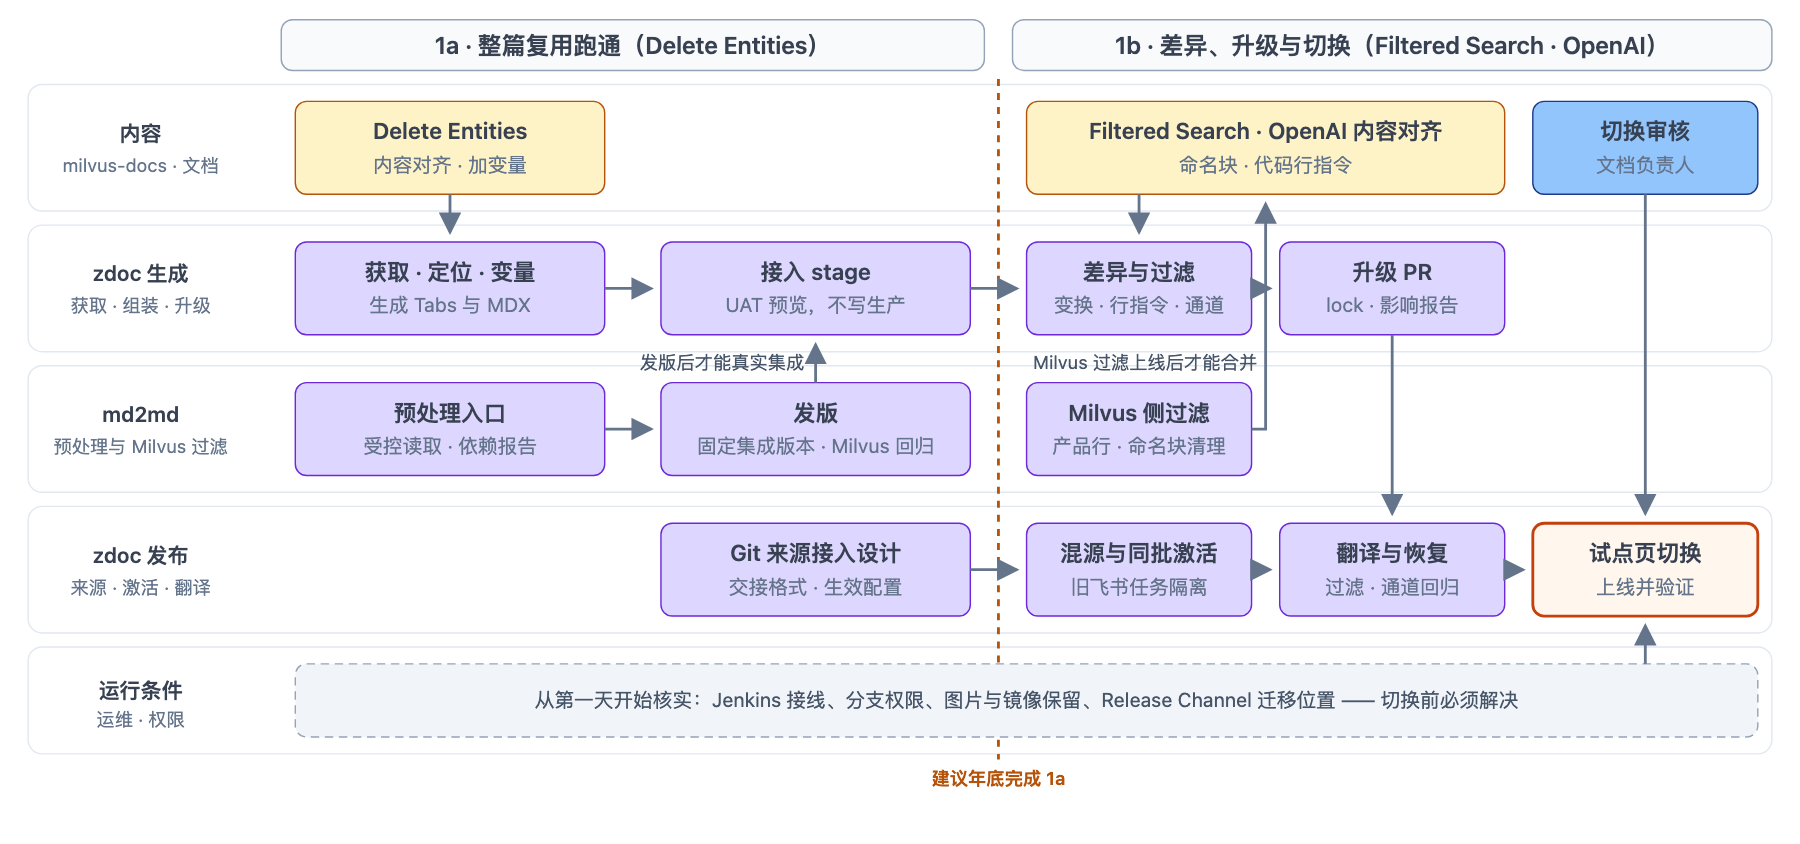
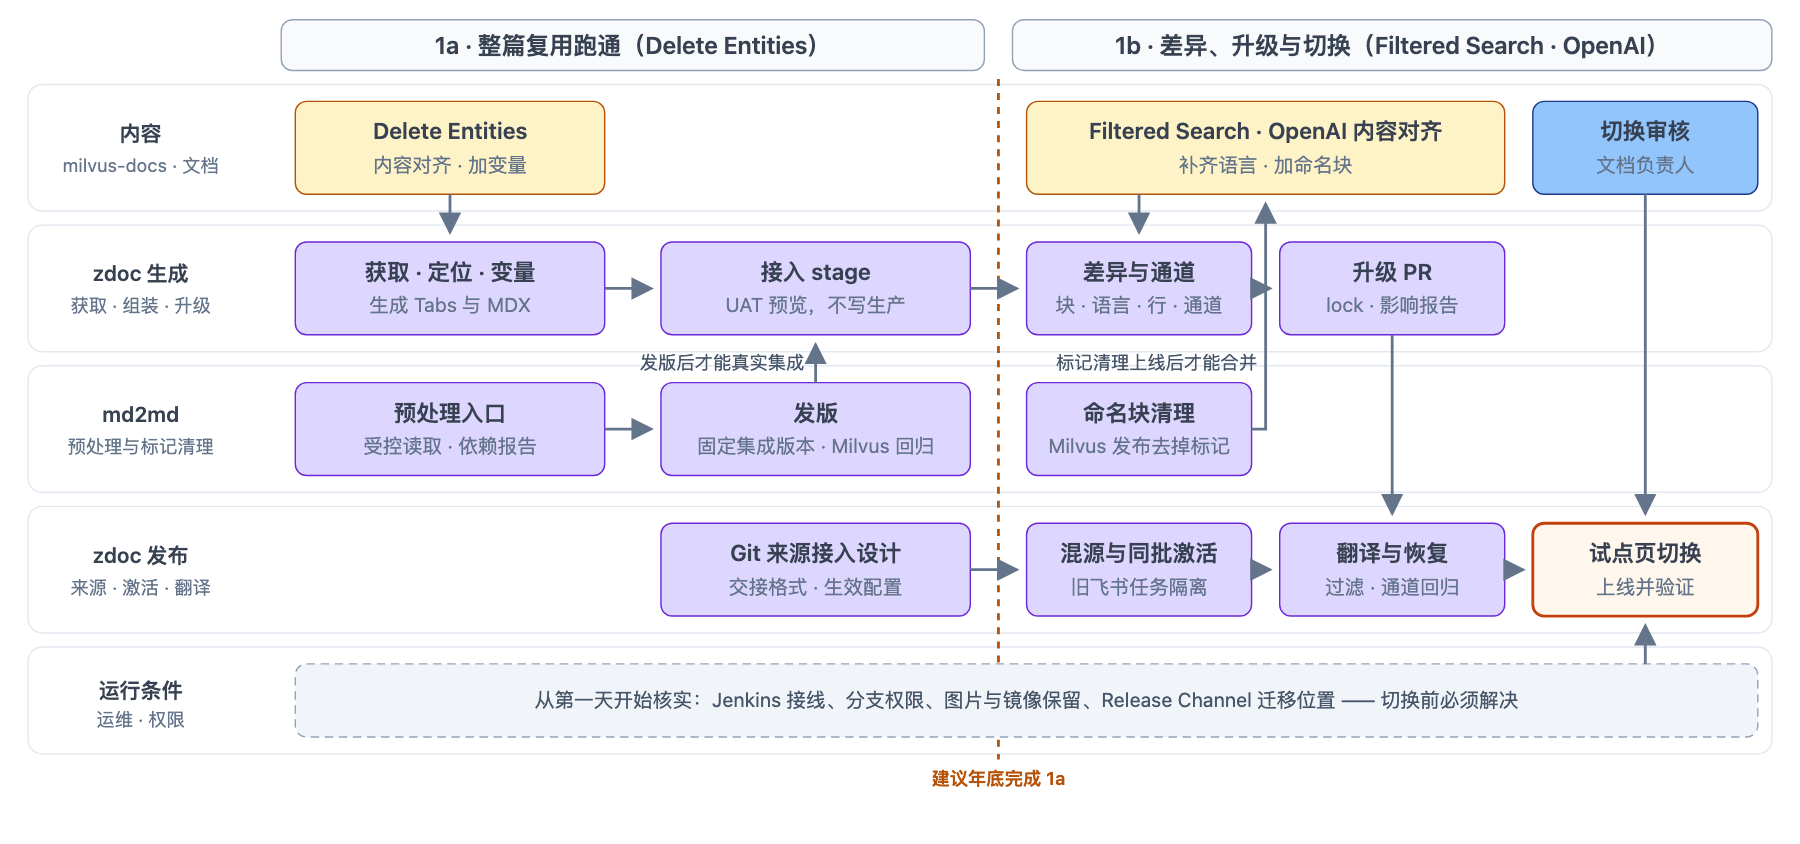
docs: express code-line differences in zdoc instead of milvus-docs
Shared source no longer carries product directives. A transform target can
now narrow from a named code group and language to consecutive whole lines
(exact match ignoring indentation, unique, at most 5 lines); add, replace
and remove apply as before and new lines inherit the first matched line's
indentation. Larger or scattered differences replace the language item.

md2md only needs named-block marker cleanup, so the Milvus-side product
filter and its "two parsers must agree" risk drop out of phase 1.

- proposal: figure 5 redrawn, section 4 notes, decision item 3
- architecture 2.3 rewritten; schema 3.7, constraints, errors, fields
- phase-1 tasks, T04, dependencies; five figures relabelled
- audit keeps its original conclusion with a dated follow-up note

diff --git a/docs/architecture.md b/docs/architecture.md
@@ -12,13 +12,13 @@
 三条设计原则：
 
 - **一个编辑源。** 共享原文只在 milvus-docs 维护；Cloud 从 md2md 处理前的固定 commit 读取，不从 web-content 或站点 HTML 反推。
-- **差异放在 zdoc。** Cloud 的章节与段落差异写在 zdoc 的 overlay（页面配置、变量、Cloud 内容文件）中，原文只提供中性的命名块。唯一例外是代码行级的产品差异（[第 2.3 节](#23-代码行产品指令)）。
+- **差异放在 zdoc。** Cloud 的章节与段落差异写在 zdoc 的 overlay（页面配置、变量、Cloud 内容文件）中，原文只提供中性的命名块，代码行级的差异也写在 zdoc（[第 2.3 节](#23-代码行差异)）。
 - **新增只在前端。** 新增工作是 zdoc 的共享获取与生成，以及 md2md 的预处理入口；校验、过滤、翻译与发布沿用 zdoc 现有流程，只扩展 Git 输入。不新增在线 registry、内容包分发服务或另一条发布队列。
 
 | 仓库 | 负责什么 | 首期改动 |
 |---|---|---|
-| [milvus-docs](https://github.com/milvus-io/milvus-docs) | 共享原文、命名块、默认变量、代码行产品指令 | 加变量、命名块与指令；更新贡献说明 |
-| [md2md](https://github.com/zilliztech/md2md) | 变量与片段 include 的展开 | 新增只做预处理的入口；新增产品行过滤与命名块清理，供 Milvus 发布使用 |
+| [milvus-docs](https://github.com/milvus-io/milvus-docs) | 共享原文、命名块、默认变量 | 加变量与命名块；更新贡献说明 |
+| [md2md](https://github.com/zilliztech/md2md) | 变量与片段 include 的展开 | 新增只做预处理的入口；新增命名块标记清理，供 Milvus 发布使用 |
 | [zdoc](https://github.com/zilliztech/zdoc) | Cloud overlay、页面生成、升级 PR、发布 | 新增共享获取与生成；扩展来源、通道与发布接入 |
 | [web-content](https://github.com/milvus-io/web-content) → [milvus.io](https://github.com/milvus-io/milvus.io) | Milvus 发布；SDK Reference 原文 | 不变，只做回归验证 |
 
@@ -28,7 +28,7 @@
 
 ## 2. 页面生成
 
-![Cloud 页面生成流水线：①按 lock 中的 commit 获取 milvus-docs 原文；②定位命名块与代码组并生成 registry；③按页面配置执行 add、replace、remove 并包裹 NextChannel；④调用 md2md 预处理入口展开变量与片段；⑤用 zdoc 现有过滤器处理产品行指令，只保留 zilliz 行；⑥站点适配并输出 MDX。下方对照 Milvus 侧：md2md 用 Milvus 变量展开，只保留 milvus 行并清除命名块标记。](./assets/generation-pipeline.png)
+![Cloud 页面生成流水线：①按 lock 中的 commit 获取 milvus-docs 原文；②定位命名块与代码组并生成 registry；③按页面配置对命名块、语言示例或连续的代码行执行 add、replace、remove，并包裹 NextChannel；④调用 md2md 预处理入口展开变量与片段；⑤沿用 zdoc 现有的产品过滤，只处理 Cloud 内容中的指令；⑥站点适配并输出 MDX。下方对照 Milvus 侧：md2md 用 Milvus 变量展开并清除命名块标记。](./assets/generation-pipeline.png)
 
 图 2 · Cloud 页面生成流水线
 - **顺序是约束，不是实现细节。** 命名块必须在变量展开之前定位，因为标记只存在于原文中；Cloud 内容文件在第 3 步插入后，与原文一起在第 4 步展开变量。本地原型也按这个顺序实现。
@@ -51,7 +51,7 @@
 
 ### 2.2 差异与变量
 
-页面配置对命名块只做三种动作：`add`（在块前后或代码组中增加）、`replace`、`remove`，另可把命名块包进 `<NextChannel>`（第 4 节）。动作写法和冲突规则见[消费配置草案](./consumption-schema.md)。
+页面配置只做三种动作：`add`、`replace`、`remove`。目标可以是一个命名块、代码组中的一个语言示例，或语言示例中连续的几行（第 2.3 节）。另可把命名块包进 `<NextChannel>`（第 4 节）。动作写法和冲突规则见[消费配置草案](./consumption-schema.md)。
 
 变量沿用 md2md 的 `Variables.json` 与 `{{var.xxx}}`：
 
@@ -60,24 +60,34 @@
 - 变量只放小粒度的值，不放整行代码。缺少 Cloud 绑定时失败，不静默使用 Milvus 的值。
 - 接入时核实 md2md 原有的目录与页面作用域，保持旧入口兼容；新约定使用显式根目录，首期不引入多层隐式继承。
 
-### 2.3 代码行产品指令
+### 2.3 代码行差异
 
-同一段代码中只有个别行因产品而不同时，例如 embedding 函数参数中 Milvus 的 `credential` 与 Cloud 的 `integration_id`，在共享原文中沿用 zdoc 的[代码变体语法](https://github.com/zilliztech/zdoc/blob/dev/packages/docs-tooling/src/lark/CODE_VARIANTS.md)。示意见方案总览图 5。
+同一段代码中只有个别行因产品而不同时，例如 embedding 函数参数中 Milvus 的可选 `credential` 注释与 Cloud 必填的 `integration_id`，原文的代码不改，只给代码组加命名块；zdoc 在页面配置中按原文里连续的整行定位并修改。示意见方案总览图 5。
 
-```python
-    # include-next-line zilliz
-    "integration_id": "YOUR_INTEGRATION_ID",
-    # include-next-line milvus
-    # "credential": "apikey_dev",
+```yaml
+- operation: replace
+  target:
+    module: openai
+    block: define-function-code
+    language: python
+    lines: |
+      # Optional parameters:
+      # "credential": "apikey_dev",
+  content:
+    lines: |
+      "integration_id": "YOUR_INTEGRATION_ID",
 ```
 
-- 只用于代码块内的整行；段落和章节差异仍用命名块与 Cloud 内容文件。
-- 只删除整行，不插入代码，因此不涉及缩进处理。
-- Cloud 侧复用 zdoc 现有过滤器处理 Git 输入；Milvus 侧在 md2md 中新增同语法的过滤，Milvus 站点不得出现 `zilliz` 行或指令行。
-- 语法错误、未闭合区域和未知目标直接失败。
-- 一段代码中被指令控制的行过多时，改为由 zdoc 替换整个语言项，不在原文中堆叠条件。
+- **定位规则。** 只在已经定位的代码组和语言示例内查找；`lines` 是一行或连续的几行，比较时忽略行首缩进和行尾空格，其余必须完全一致，并且恰好出现一次。最多 5 行。
+- **三种动作照旧。** `replace` 换掉这几行，`remove` 删掉，`add` 配合 `position: before | after` 在这几行前后插入。
+- **缩进。** 新内容以被定位的第一行的缩进为基准，保留各行之间的相对缩进。
+- **失败关闭。** 匹配不到、出现多次、超过上限或目标语言不存在，都直接失败。上游改了被定位的行时，引用它的页面不能升级，旧版本继续有效。
+- **超出范围就替换整个语言示例。** 一段代码中有多处不同，或连续超过 5 行，改为替换该语言示例（`language` 级）。
 
-不采用代码子区域替换：它需要在源代码中标记区域、在插入点处理缩进，并为每种语言维护替换内容，成本高于行级指令。
+原文中不写任何产品指令，Milvus 侧也不需要新增产品过滤；md2md 只清除命名块标记。不采用以下做法：
+
+- **在原文中写 zdoc 产品行指令**（`include-next-line zilliz|milvus`）：Cloud 的代码会进入 Milvus 原文，Milvus 作者修改代码时要同时照顾 Cloud 的行，Milvus 发布链还要新增一套与 zdoc 理解一致的过滤。
+- **在代码中加区域标记再替换**：标记要按每种语言写成注释，在代码内部清理，替换时还要按标记位置处理缩进。
 
 ### 2.4 页面类型
 
@@ -105,16 +115,17 @@
 | 移动块或修改标题，ID 不变 | 身份保持，检查内容和上下文变化 |
 | 块改名或删除 | 引用它的页面不能升级，旧版本继续有效，需要显式迁移 |
 | 被 Cloud 替换的原文发生变化 | 即使 Cloud 输出不变，也提示复核 |
+| 被 Cloud 按行定位的代码行被修改 | 匹配失败，引用它的页面不能升级，旧版本继续有效 |
 | 类型、上下文或语言变化 | 检查兼容性，不静默组装 |
 | 只新增标记，正文未变 | 更新身份与依赖，不触发重译 |
 
-影响报告按页汇总：代码组报告完整代码组的上下文，Markdown 块报告页面上下文，代码行指令的变化按所在代码组报告。摘要只能发现变化，不能判断语义是否一致，首期提示可以保守。
+影响报告按页汇总：代码组报告完整代码组的上下文，Markdown 块报告页面上下文，按行定位的规则随所在代码组报告。摘要只能发现变化，不能判断语义是否一致，首期提示可以保守。
 
 ## 4. 发布通道与内容过滤
 
 zdoc 已有两套互不干扰的过滤，共享内容直接复用：
 
-- **产品过滤**（zilliz、saas、paas、milvus 等目标）在 Fetch 阶段执行。对共享内容，它处理第 2.3 节的代码行指令，处理对象从飞书输入扩展到 Git 输入。
+- **产品过滤**（zilliz、saas、paas、milvus 等目标）在 Fetch 阶段执行。共享原文不写产品指令；Cloud 内容文件迁入 Git 后仍可使用现有指令，处理对象从飞书输入扩展到 Git 输入。
 - **发布通道**（Current / Next）在渲染阶段执行：UAT 与 Prod 使用同一镜像，部署时注入通道，按通道显示内容。
 
 | 需要只在 Next 显示的内容 | 写在哪里 |

diff --git a/docs/proposal.md b/docs/proposal.md
@@ -60,25 +60,26 @@
 
 图 3 · 目标工具链（待实施）
 - **读取点在 md2md 之前。** web-content 中的内容已经按 Milvus 的值展开了变量、清理了命名块标记，Cloud 从那里读取就无法绑定自己的值，也找不到需要差异处理的位置。所以 Cloud 直接读 milvus-docs，与 Milvus 发布链并行。
-- **新增工作只在虚线框内**：zdoc 的获取与生成，以及 md2md 的预处理入口和代码行过滤。右侧的校验、过滤、Current / Next、翻译和发布沿用现有流程，只扩展 Git 输入（要求 3、6）。
+- **新增工作只在虚线框内**：zdoc 的获取与生成，以及 md2md 的预处理入口和命名块标记清理。右侧的校验、过滤、Current / Next、翻译和发布沿用现有流程，只扩展 Git 输入（要求 3、6）。
 - **过渡期两种来源并存。** 未迁移的页面继续从飞书进入，已迁移的页面从 Git 进入，同一页任一时刻只有一个来源。
 
 现有工具链的对照见[附录 A](#附录-a现有发布工具链)。
 
 ## 4. 差异怎样表达
 
-![三类页面：无差异的页面整篇复用，如 Delete Entities，原文把产品值写成变量，zdoc 只需一份页面配置；有差异的页面在共享正文上叠加 Cloud 差异，如 OpenAI 与 Filtered Search，原文加命名块和代码行指令，zdoc 维护页面配置与 Cloud 内容文件；Cloud 独有页在 zdoc 维护完整原文，首期不迁移。](./assets/page-types.png)
+![三类页面：无差异的页面整篇复用，如 Delete Entities，原文把产品值写成变量，zdoc 只需一份页面配置；有差异的页面在共享正文上叠加 Cloud 差异，如 OpenAI 与 Filtered Search，原文只加命名块，zdoc 维护页面配置与 Cloud 内容文件；Cloud 独有页在 zdoc 维护完整原文，首期不迁移。](./assets/page-types.png)
 
 图 4 · 三类页面
 - **首期只处理前两类。** 无差异的页面最省事：原文把产品名等写成变量，zdoc 写一份页面配置即可。
 - **有差异的页面按差异的粒度选择写法**（要求 4），下面以 OpenAI 页展开。另一种常见差异是 Cloud 独有的整个代码示例，例如 Filtered Search 的 CLI，写成 Cloud 内容文件加入对应的代码组。
 
-![OpenAI 页的差异：①共享正文整篇复用，产品名写成变量；②“Before you start”一节两端不同，milvus-docs 为这一节加命名块，zdoc 用 Cloud 内容文件替换；③代码中的凭证参数，两行都写在 milvus-docs 的共享代码中并用产品行指令标记，Milvus 站点只保留注释掉的可选 credential，Cloud 站点只保留必填的 integration_id。](./assets/page-anatomy.png)
+![OpenAI 页的差异：①共享正文整篇复用，产品名写成变量；②“Before you start”一节两端不同，milvus-docs 为这一节加命名块，zdoc 用 Cloud 内容文件替换；③代码中的凭证参数，milvus-docs 的代码不改，只给代码组加命名块；zdoc 页面配置中的一条 replace 规则按原文中连续的两行定位，把可选的 credential 注释换成 Cloud 必填的 integration_id。Milvus 站点与原文相同，只去掉命名块标记。](./assets/page-anatomy.png)
 
 图 5 · OpenAI 页的差异怎样表达
 - **① 和 ② 不需要在原文中写 Cloud 的内容。** 原文只给需要替换的一节加命名块（block ID），Cloud 的内容和替换规则都在 zdoc。
-- **③ 是需要讨论的原则调整：Cloud 专用的一行写在 Milvus 原文中。** 凭证这类差异只有一行，但每种 SDK 都有；如果改为在 zdoc 替换整段代码，Cloud 要为每种语言复制一份几乎相同的代码，漂移问题又会出现。
-- **③ 的风险可控。** 指令语法沿用 zdoc 的[代码变体规范](https://github.com/zilliztech/zdoc/blob/dev/packages/docs-tooling/src/lark/CODE_VARIANTS.md)，Cloud 现有流程中已经在用；只删除整行、不插入代码；只用于代码，段落差异仍写在 zdoc。需要补的工作是 Milvus 发布链增加同语法的过滤，确保 Cloud 的行不出现在 Milvus 站点。
+- **③ 也不在原文中写 Cloud 的内容。** 凭证这类差异只有一两行，但每种 SDK 都有。zdoc 按原文中连续的整行定位，只改这几行；不必为每种语言复制整段代码，原文也不用写产品指令。
+- **③ 的定位范围很窄，出错时不会悄悄跳过。** 只在指定的代码组和语言内匹配，整行一致、恰好出现一次、最多 5 行，新行沿用原行缩进。上游改了这几行时匹配失败，升级 PR 被拦下，旧版本继续有效。差异更大时替换整个语言示例。
+- **不在原文中写 zdoc 的产品行指令**（`include-next-line`）。那样 Milvus 作者改代码时要照顾 Cloud 的行，Milvus 发布链也要新增一套与 zdoc 理解一致的过滤。
 
 ### 4.1 Milvus 先上线、Cloud 后上线的内容
 
@@ -102,7 +103,7 @@
 |---|---|---|
 | [Delete Entities](../examples/delete-entities/walkthrough.md) | 整篇复用：变量绑定连接值，生成多语言代码 Tabs | 本地样例已验证 |
 | [Filtered Search](../examples/filtered-search/walkthrough.md) | 产品名变量；在共享代码组中加入 Cloud CLI | 本地样例已验证 |
-| OpenAI（[Milvus](https://milvus.io/docs/openai.md) / [Cloud](https://docs.zilliz.com/docs/openai)） | 前提条件整节替换；凭证参数的代码行指令；先对齐历史漂移 | 候选，未制作样例 |
+| OpenAI（[Milvus](https://milvus.io/docs/openai.md) / [Cloud](https://docs.zilliz.com/docs/openai)） | 前提条件整节替换；凭证参数的代码行替换；先对齐历史漂移 | 候选，未制作样例 |
 
 两篇样例的共享原文含有尚未合入 Milvus 的共同修订和语言补齐，内容与 SDK 适用性仍需审核。OpenAI 跑通后，Cohere、Voyage AI 等同类页面可以照搬。实施细节与验收见 [phase-1](./phase-1.md)。
 
@@ -112,7 +113,7 @@
 |---|---|---|
 | 1 | 共享原文来源 | 读取 md2md 处理前的 milvus-docs 固定版本原文，不从 web-content 读取 |
 | 2 | 飞书退出方式与终态 | 按页切换；终态是共享页与 Cloud 独有页均在 Git 维护 |
-| 3 | 差异表达原则 | 段落与章节差异在 zdoc；代码行差异在共享代码中沿用 zdoc 产品行指令 |
+| 3 | 差异表达原则 | 段落、章节与代码行差异都写在 zdoc；原文只加中性命名块，不写产品指令 |
 | 4 | Current / Next | 沿用 zdoc 渲染时通道过滤；新增“包裹共享命名块”的能力 |
 | 5 | 试点候选 | 1a 用 Delete Entities；1b 用 Filtered Search 与 OpenAI |
 | 6 | 首期范围与年底目标 | 首期按 1a、1b 推进；建议年底前完成 1a，并启动 1b |

diff --git a/README.md b/README.md
@@ -20,7 +20,7 @@ Milvus × Zilliz Cloud 文档同源设计仓库，维护方案、架构、实施
 - [Delete Entities](examples/delete-entities/walkthrough.md)：整篇复用，仅通过变量处理连接值差异。
 - [Filtered Search](examples/filtered-search/walkthrough.md)：产品名与连接变量、共享多语言代码，以及 Cloud CLI 的补充。
 
-OpenAI embedding 页是第三个试点候选，用于验证前提条件整节替换和凭证参数的代码行指令，尚未制作样例；差异分析见 [zdoc 代码变体与发布通道核验](research/zdoc-variants-and-channels-audit.md#3-openai-页对照)。
+OpenAI embedding 页是第三个试点候选，用于验证前提条件整节替换和凭证参数的代码行替换，尚未制作样例；差异分析见 [zdoc 代码变体与发布通道核验](research/zdoc-variants-and-channels-audit.md#3-openai-页对照)。
 
 每篇样例包含作者输入、生成结果及适用边界，具体说明随样例维护。
 

diff --git a/research/zdoc-variants-and-channels-audit.md b/research/zdoc-variants-and-channels-audit.md
@@ -21,6 +21,8 @@
 
 **对共享方案的结论：** 代码行差异可以沿用这套语法写在共享原文中。Cloud 侧需要在 Git 输入上调用同一过滤器；Milvus 发布链需新增相同语法的过滤，删除 `zilliz` 等非 Milvus 目标的行并移除指令行。段落级差异不采用源内标签，仍由 zdoc 的命名块变换处理。
 
+**后续决定（2026-10-12）：** 为避免 Cloud 的代码进入 Milvus 原文、Milvus 发布链新增过滤，共享原文不写产品指令；代码行差异改由 zdoc 在页面配置中按连续整行定位处理，见[架构设计第 2.3 节](../docs/architecture.md#23-代码行差异)。上面的结论保留为核验记录。
+
 ## 2. 发布通道（Current / Next）
 
 同一构建同时包含 Current 与 Next 内容，部署时按通道过滤，因此 UAT 与 Prod 可以使用同一镜像。

diff --git a/examples/filtered-search/walkthrough.md b/examples/filtered-search/walkthrough.md
@@ -245,4 +245,4 @@ Python → Java → Go → Rust → C++ → NodeJS → cURL → Zilliz CLI
 
 两产品的原有图片地址分别保留，图片内容是否一致尚待核对。JSON 输出中的全角逗号和尾逗号已修正，数据值未变；原文 top-K 3 与请求 limit 5、结果距离及各语言输出注释仍需内容和运行核验。
 
-生成结果供设计对照，尚不能替代生产页面。本地脚本检查、固定源记录、增删替换覆盖范围和代码行指令等待实现要求集中在[工程验证附件](../../docs/phase-1.md#7-当前证据本地样例)。
+生成结果供设计对照，尚不能替代生产页面。本地脚本检查、固定源记录、增删替换覆盖范围和代码行变换等待实现要求集中在[工程验证附件](../../docs/phase-1.md#7-当前证据本地样例)。
